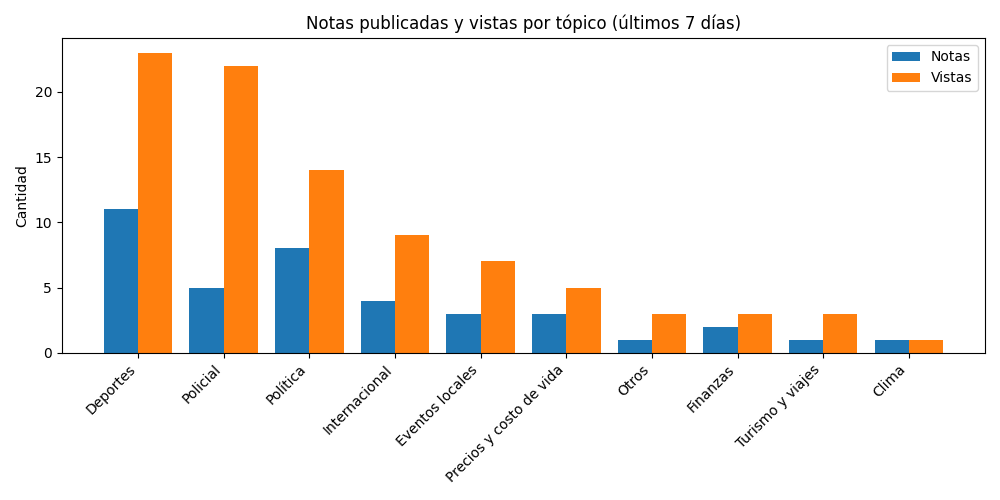
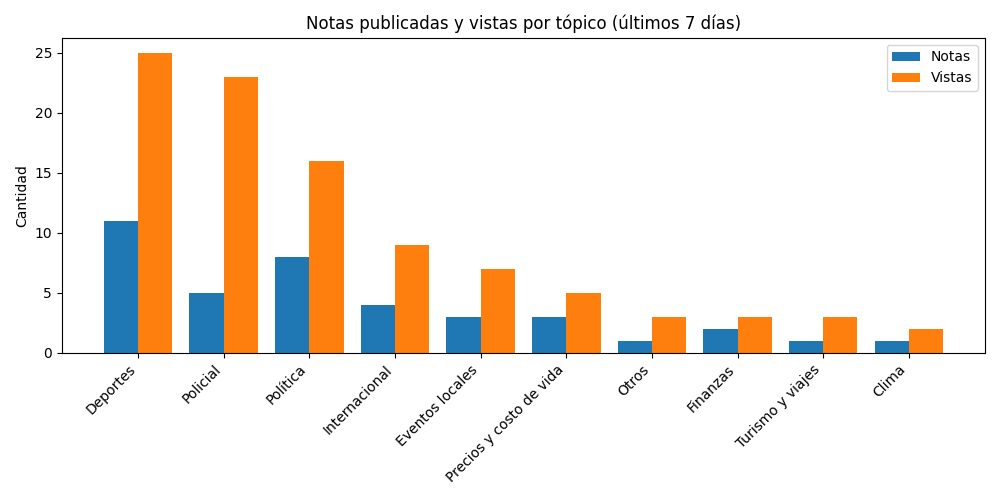
📰 Newsletter 2025-06-30

diff --git a/salida/2025-06-30-newsletter.md b/salida/2025-06-30-newsletter.md
@@ -31,24 +31,24 @@
 
 | Tópico | Notas | % Total | Vistas | Vistas/Nota |
 |---|---:|---:|---:|---:|
-| Deportes | 11 | 28% | 23 | 2.1 |
-| Política | 8 | 21% | 14 | 1.8 |
-| Policial | 5 | 13% | 22 | 4.4 |
+| Deportes | 11 | 28% | 25 | 2.3 |
+| Política | 8 | 21% | 16 | 2.0 |
+| Policial | 5 | 13% | 23 | 4.6 |
 | Internacional | 4 | 10% | 9 | 2.2 |
 | Precios y costo de vida | 3 | 8% | 5 | 1.7 |
 | Eventos locales | 3 | 8% | 7 | 2.3 |
 | Finanzas | 2 | 5% | 3 | 1.5 |
-| Clima | 1 | 3% | 1 | 1.0 |
+| Clima | 1 | 3% | 2 | 2.0 |
 
 ---
 
 ## ✨ Artículos destacados
 
+### La nieve copó La Cumbrecita: colapso vehicular y operativos de emergencia por la masiva llegada de turistas
+*30 Jun 2025 — 6 vistas*
+
 ### Condenan a nueve personas por millonaria estafa inmobiliaria en Calamuchita
 *26 Jun 2025 — 6 vistas*
-
-### La nieve copó La Cumbrecita: colapso vehicular y operativos de emergencia por la masiva llegada de turistas
-*30 Jun 2025 — 5 vistas*
 
 ### Arrestan a un policía en Córdoba por integrar una red de estafas a través de Tinder
 *26 Jun 2025 — 4 vistas*
@@ -63,7 +63,7 @@
 
 - Refuerzo en **Turismo y viajes**: alto interés con pocas notas (engagement: 3.0).
 - Optimizar **Precios y costo de vida**: bajo interés relativo pese a varias notas (engagement: 1.7).
-- Buen rendimiento en **Policial**: mantener estrategia (engagement: 4.4).
+- Buen rendimiento en **Policial**: mantener estrategia (engagement: 4.6).
 
 ## ✍ Autores de la semana
 
